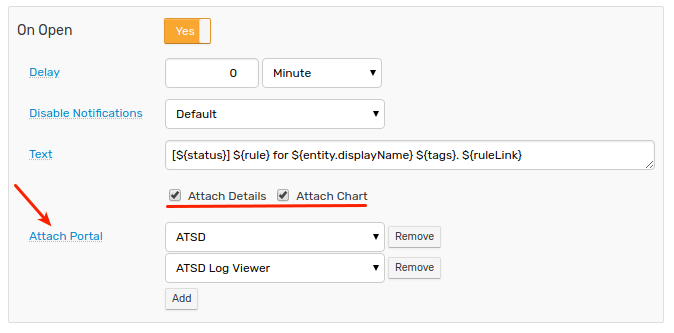
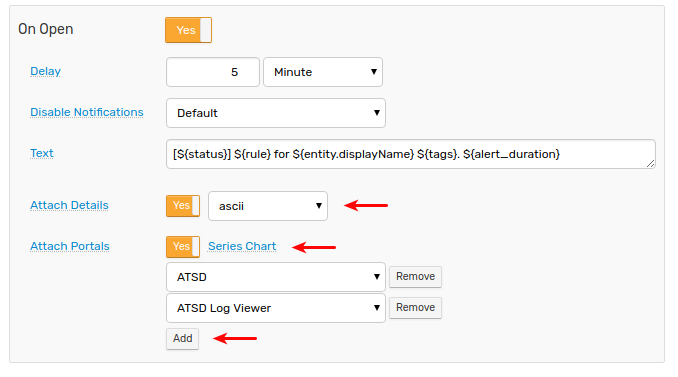
images updates in web-notifications.md

diff --git a/rule-engine/web-notifications.md b/rule-engine/web-notifications.md
@@ -127,7 +127,7 @@ Fill out the required fields for the given notification type.
 
 Click 'Test' to verify the delivery.
 
-If the notification type supports sending charts, select one of the portals from the 'Test Portal' drop-down and click 'Send Screenshot'.
+If the notification type supports sending charts, select one of the portals from the 'Test Portal' drop-down.
 
 The notification request is successful if the endpoint returns status `200` (OK).
 
@@ -173,7 +173,7 @@ Sample alert message with placeholders:
 [${status}] ${rule} for ${entity} ${tags}.
 ```
 
-The alert message can include links to ATSD resources using [link placeholders](placeholders.md#link-placeholders) such as the `${chartLink}`.
+The alert message can include links to ATSD resources using [link placeholders](links.md) such as the `${chartLink}`.
 
 ```javascript
 ${chartLink}
@@ -195,19 +195,19 @@ Attachments options are enabled in the rule editor if the capability is implemen
 
 ![](images/notify-attach.png)
 
-The option `Attach Chart` allows to send default portal for the current metric, entity and tags as an image. 
+The option `Attach Portals` allows to send one or more portals. If a portal is a [template](../portals/creating-and-assigning-portals.md#template-portals), placeholders such as entity, metric, tags will be resolved from alert time series key.
+
+![](images/notify-attach-4.png)
+
+The option `Series Chart` allows to send default portal for the current metric, entity and tags as an image. 
 
 ![](images/notify-attach-1.png)
 
-The option `Attach Details` allows to send alert details table.
+The option `Attach Details` allows to send alert details table. It is possible to specify the [format](details-table.md#format) of the details table or the [Telegram](../notifications/telegram.md) endpoint.
 
 ![](images/notify-attach-2.png)
 
 ![](images/notify-attach-3.png)
-
-The option `Attach Portal` allows to send one or more portals. If a portal is a [template](../portals/creating-and-assigning-portals.md#template-portals), placeholders such as entity, metric, tags will be resolved from alert time series key.
-
-![](images/notify-attach-4.png)
 
 
 ### Multiple Endpoints
@@ -232,7 +232,9 @@ https://atsd_host:8443/messages?search=1&search=&type=notification&interval.inte
 
 The number of notifications sent per minute can be monitored with the [`web_service_notifications_per_minute`](../administration/monitoring.md#rule-engine) metric collected by the database.
 
+```elm
 https://atsd_host:8443/portals/series?entity=atsd&metric=web_service_notifications_per_minute
+```
 
 ![](images/notifications-monitoring.png)
 
